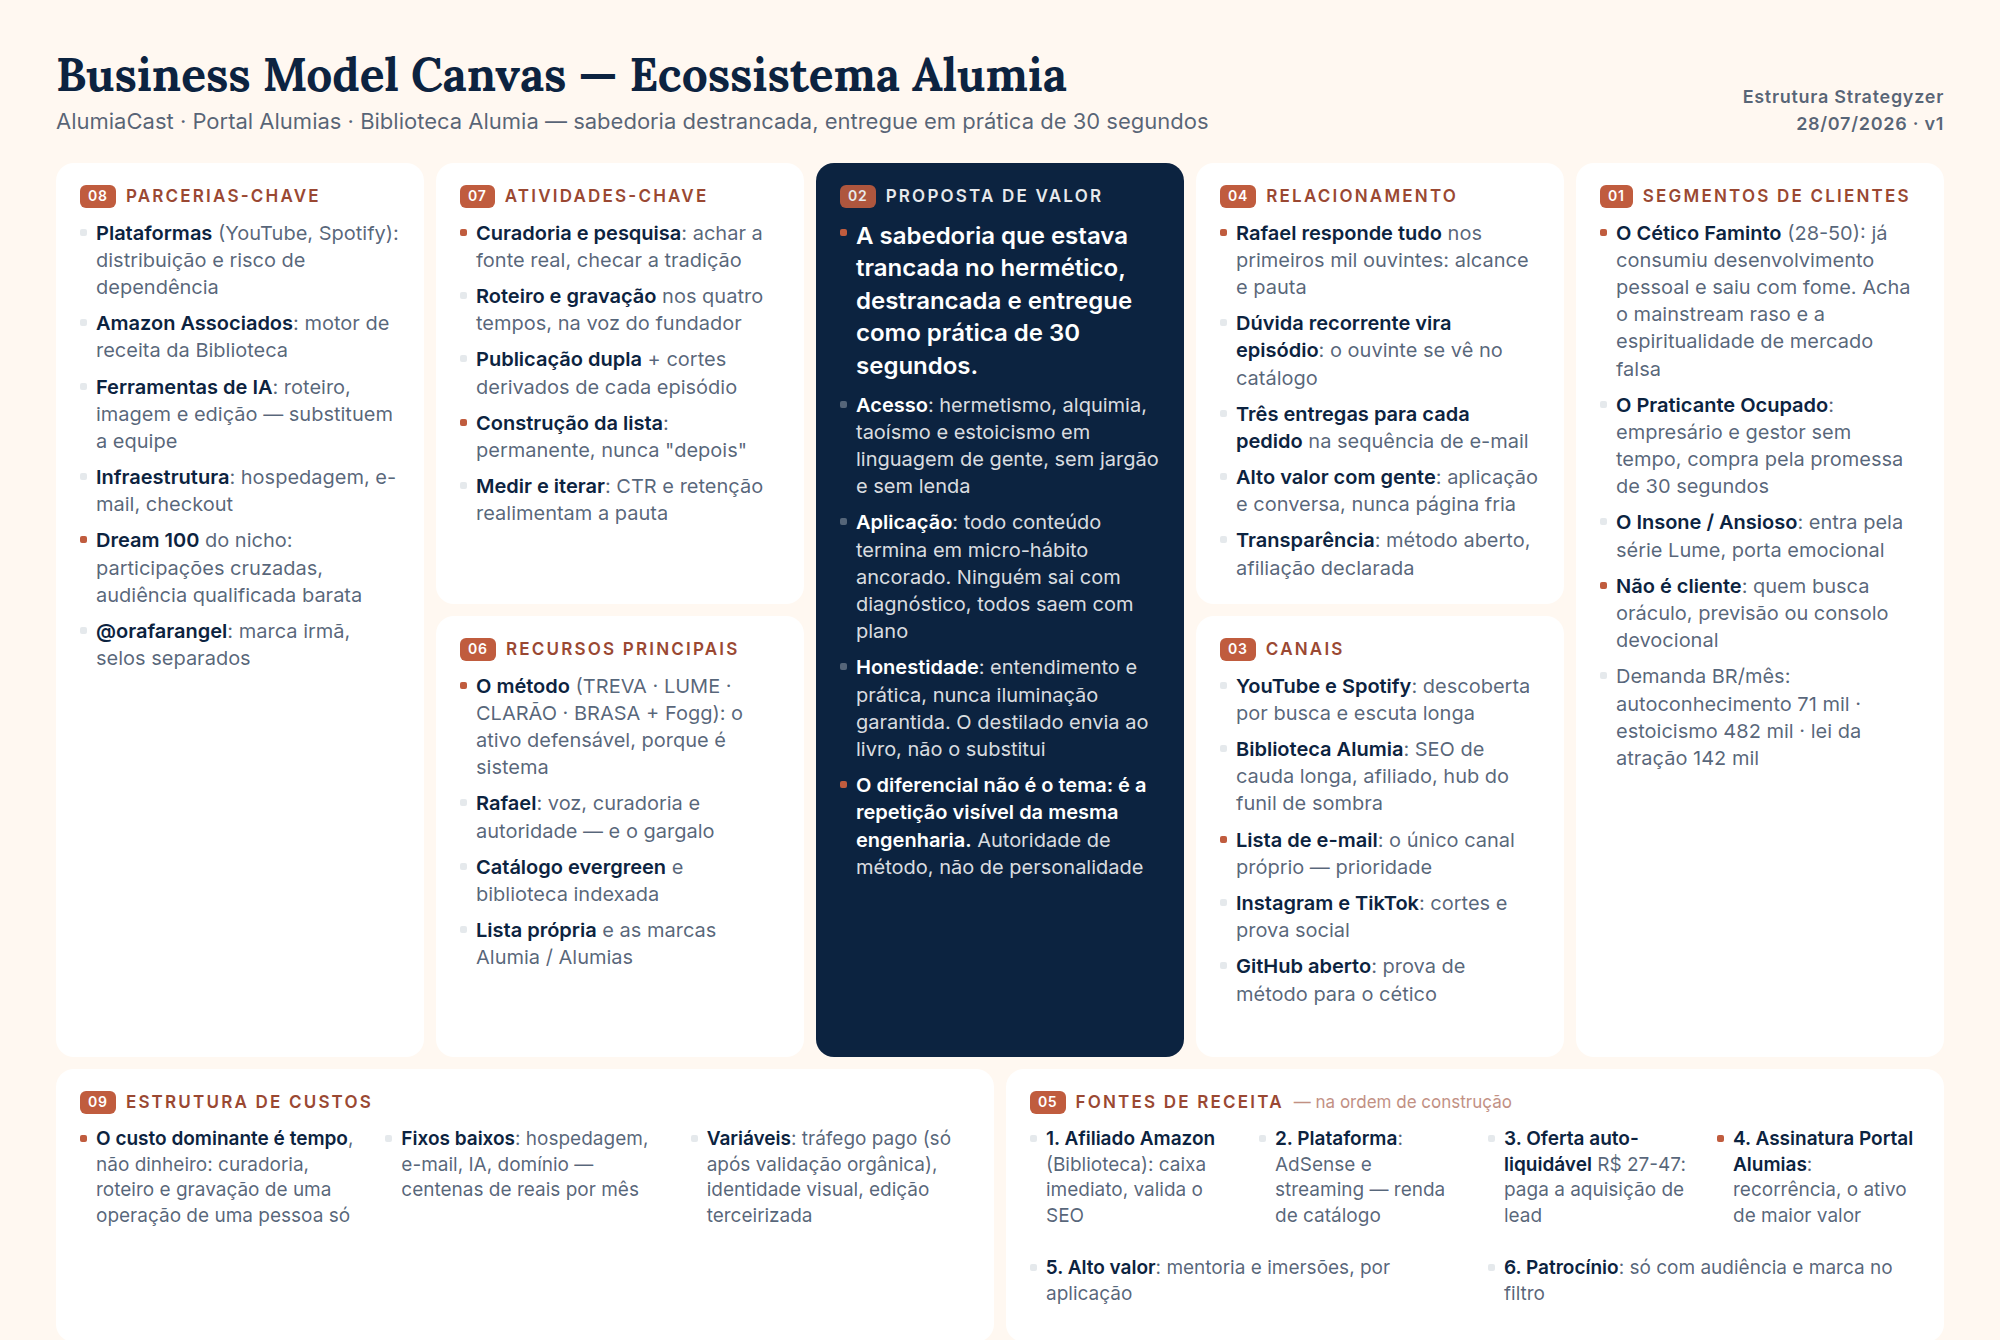
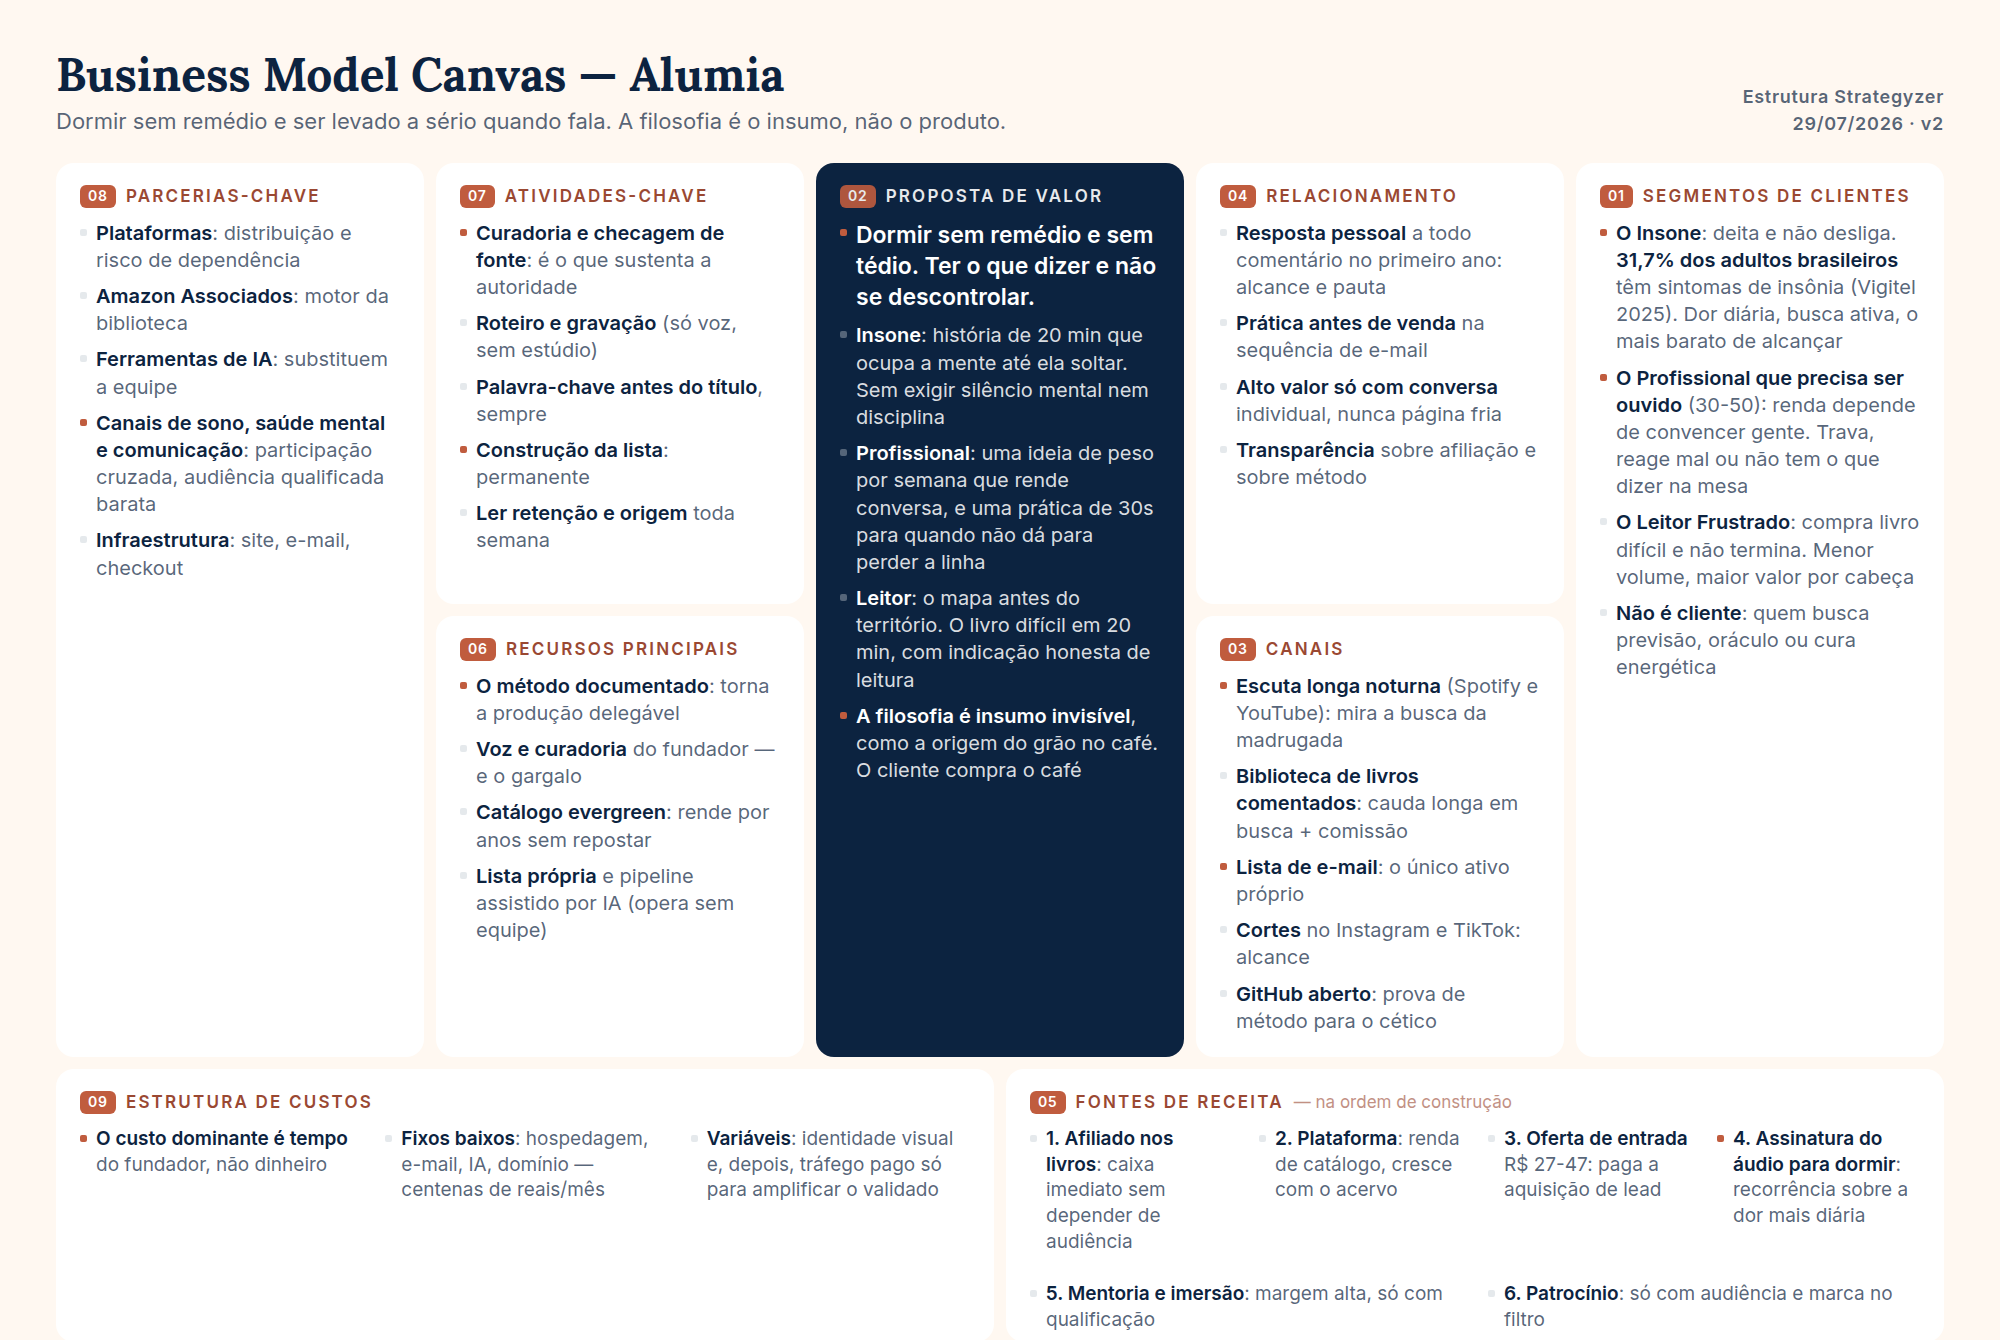
Reescreve o canvas do Alumia: parte da dor real, não da beleza do conteúdo
Correção de rota após crítica do fundador. A filosofia vira insumo e o
produto passa a atender duas necessidades básicas: dormir e acordar, e
interação social/status. Dados: Vigitel 2025 (31,7% dos adultos com
sintomas de insônia), Anderson et al. 2015 sobre status como motivo
humano fundamental, e volumes de busca reais do vidIQ BR.

Claude-Session: https://claude.ai/code/session_01MHaCAs7xjpX4XdmLxjd6p1

diff --git a/bau-de-ideias/alumia/business-model-canvas.md b/bau-de-ideias/alumia/business-model-canvas.md
@@ -1,99 +1,112 @@
-# Business Model Canvas — Ecossistema Alumia
+# Business Model Canvas — Alumia (v2, com pé no chão)
 
-> Estrutura: Business Model Canvas (Osterwalder & Pigneur / Strategyzer), 9 blocos. Criado em 28/07/2026. Escopo: o negócio Alumia (AlumiaCast, Portal Alumias, Biblioteca Alumia), com o @orafarangel como marca irmã e ativo de audiência.
+> Versão 2, 29/07/2026. Reescreve a v1 depois da crítica do fundador: a primeira versão vendia a beleza do conteúdo, não a dor do cliente. Esta parte das necessidades básicas, usa dados de busca reais (vidIQ, Brasil, jul/2026) e fontes verificáveis de prevalência.
 
-## 1. Segmentos de Clientes
+## A correção de rota
 
-**Segmento primário — o Cético Faminto.** Adulto 28-50 anos, escolaridade alta ou autodidata voraz, que já consumiu desenvolvimento pessoal e saiu com fome: acha o mainstream raso e a espiritualidade de mercado falsa. Busca profundidade real e detesta guru. Demanda mensurável no Brasil: autoconhecimento (71 mil buscas/mês no YouTube), lei da atração (142 mil), estoicismo (482 mil).
+A v1 dizia que o produto era "destrancar a sabedoria hermética". Isso descreve a matéria-prima, não o trabalho que o cliente precisa fazer. Ninguém acorda querendo entender hermetismo.
 
-**Segmento secundário — o Praticante Ocupado.** Empresário, gestor, profissional liberal sem tempo, que quer resultado comportamental (ansiedade, foco, decisão) e não tem paciência para teoria. Compra pela promessa de 30 segundos.
+As indústrias que se sustentam orbitam necessidades básicas (comer e beber, higiene, dormir e acordar, interação social) e quase todas operam a serviço do ego, num gradiente que vai do essencial ao supérfluo. Filosofia não é uma necessidade básica. Ela só vira negócio quando serve a uma delas.
 
-**Segmento terciário — o Insone/Ansioso.** Chega pela série imersiva Lume buscando desacelerar e dormir. Entrada pela porta emocional, não pela intelectual.
+O Alumia se posiciona em duas dessas necessidades, e a filosofia entra como insumo invisível:
 
-**Não é cliente:** quem busca oráculo, previsão, cura energética ou consolo devocional. Recusa explícita: atrair esse público destrói o posicionamento.
+1. **Dormir e acordar.** Conteúdo que ajuda a pessoa a desligar a cabeça e adormecer.
+2. **Interação social e status.** Repertório, clareza e autocontrole para a pessoa ser ouvida, respeitada e não se sabotar diante de quem importa.
 
-## 2. Proposta de Valor
+A tradição milenar é o que garante a qualidade e a diferenciação do produto, do mesmo modo que a origem do grão importa no café. O cliente compra o café, não a botânica.
 
-**O núcleo:** a sabedoria que estava trancada no hermético, destrancada e entregue como prática de 30 segundos.
+## As duas dores, com número
 
-Três promessas verificáveis:
-- **Acesso:** o conhecimento difícil (hermetismo, alquimia, cabala, taoísmo, estoicismo) explicado em linguagem de gente, sem jargão e sem lenda de marketing.
-- **Aplicação:** todo conteúdo termina em micro-hábito ancorado (método B = M + A + P, BJ Fogg). Ninguém sai com diagnóstico, todo mundo sai com plano.
-- **Honestidade:** promessa contida por princípio — entendimento e prática, nunca iluminação ou abundância garantida. O destilado é mapa que envia ao livro, não substituto dele.
+### Dor 1 — não conseguir dormir
 
-**O diferencial competitivo real:** não é o tema de cada episódio, é a repetição visível da mesma engenharia (TREVA → LUME → CLARÃO → BRASA). Autoridade de método, não de personalidade.
+O Vigitel 2025 (Ministério da Saúde) mediu que **31,7% dos adultos brasileiros apresentam sintomas de insônia**, chegando a 36,2% entre mulheres, e que **20,2% dormem menos de seis horas por noite**. É uma dor física, diária, com consequência imediata no dia seguinte, e as pessoas já gastam dinheiro com ela (medicação, aplicativos, chás, colchões).
 
-## 3. Canais
+Demanda de busca no YouTube Brasil: insônia soma 58 mil buscas mensais, sono 40 mil, e o guarda-chuva "dormir" 150 mil no mundo. O formato de escuta longa noturna tem competição baixa em português (o cruzamento "estoicismo para dormir" tem 50 mil buscas com competição 27 de 100).
 
-| Canal | Função no funil | Estado |
+**O que a pessoa contrata hoje:** remédio, aplicativo de meditação, ruído branco, série no automático, rolagem no celular. **Por que demite:** remédio tem efeito colateral e culpa, meditação guiada é monótona e a mente escapa, tela estimula e piora.
+
+**O que o Alumia vende:** uma narrativa em segunda pessoa que ocupa a mente até ela apagar, sem exigir silêncio mental nem disciplina. O ensinamento fica embutido na história, e a pessoa não precisa saber disso para o produto funcionar.
+
+### Dor 2 — não ser levado a sério quando fala
+
+A necessidade de status não é vaidade, é motivo humano fundamental: a revisão de [Anderson, Hildreth e Howland (Psychological Bulletin, 2015)](https://pubmed.ncbi.nlm.nih.gov/25774679/), sobre centenas de estudos, mostra que o desejo por status atravessa culturas, gêneros e idades, e que bem-estar, autoestima e saúde física e mental variam conforme o status que a pessoa recebe do grupo.
+
+Demanda de busca no Brasil: comunicação 42 mil, carisma 37 mil, oratória 35 mil, persuasão 17 mil, autoconfiança 16 mil, como ser mais confiante 14 mil. O cluster soma mais de 160 mil buscas mensais. E ansiedade, que é o inimigo direto dessa performance social, tem 175 mil buscas mensais no Brasil, com 97% do volume vindo daqui.
+
+**O que a pessoa contrata hoje:** cursos de oratória, coach, terapia, vídeos de linguagem corporal, livros de comunicação. **Por que demite:** curso de oratória ensina técnica de palco e não resolve a reunião de terça, coach entrega frase e não método, e nada disso funciona no momento em que o coração dispara.
+
+**O que o Alumia vende:** repertório que dá o que dizer (a ideia que faz a pessoa parecer profunda numa conversa) e autocontrole que evita o vexame (a prática de trinta segundos antes da reunião difícil, quando a raiva sobe, quando a crítica chega).
+
+## Os nove blocos
+
+### 1. Segmentos de clientes
+
+**Núcleo A, o Insone.** Adulto que deita e não desliga. Um em cada três adultos brasileiros está aqui. Chega de madrugada, no celular, e é o segmento mais barato de alcançar porque a dor é diária e a busca é ativa.
+
+**Núcleo B, o Profissional que precisa ser ouvido.** Entre 30 e 50 anos, cargo de gestão ou negócio próprio, cuja renda depende de convencer gente. Perde oportunidade por travar, por reagir mal, ou por não ter o que dizer numa mesa de gente mais lida.
+
+**Núcleo C, o Leitor Frustrado.** Compra livro de filosofia e não termina, ou termina e não aplica. É o menor dos três, porém o de maior valor por cabeça, porque compra livro, curso e mentoria.
+
+**Não é cliente:** quem busca previsão, oráculo ou cura energética.
+
+### 2. Proposta de valor
+
+**Para o Insone:** histórias que fazem você dormir sem remédio e sem tédio. Vinte minutos de narrativa calma que ocupa a mente até ela soltar.
+
+**Para o Profissional:** o que dizer e como não se descontrolar. Uma ideia de peso por episódio, que rende conversa, e uma prática de trinta segundos para os momentos em que você não pode perder a linha.
+
+**Para o Leitor Frustrado:** o mapa antes do território. O livro difícil destrinchado em vinte minutos, com a indicação honesta de qual comprar e por onde começar.
+
+**O que sustenta as três:** fonte real e creditada, linguagem sem jargão, e sempre uma instrução executável. A repetição desse padrão é o produto.
+
+### 3. Canais
+
+Spotify e YouTube como vitrine e descoberta, com o formato de escuta longa mirando explicitamente a busca noturna. Biblioteca de livros comentados na web capturando busca de cauda longa e gerando comissão. Lista de e-mail como o único ativo próprio. Cortes curtos no Instagram e TikTok para alcance. GitHub aberto como prova de método para o cliente cético.
+
+### 4. Relacionamento
+
+Resposta pessoal a todo comentário no primeiro ano, porque comentário respondido é alcance e é pauta. Sequência de e-mail entregando prática antes de vender. Venda de alto valor apenas com conversa individual. Transparência sobre afiliação e sobre método.
+
+### 5. Fontes de receita
+
+| Ordem | Fonte | O que destrava |
 |---|---|---|
-| YouTube (AlumiaCast) | Descoberta por busca e recomendação; vídeo evergreen sem rosto | A lançar |
-| Spotify e agregadores | Descoberta e consumo em áudio; público de escuta longa | A lançar |
-| Biblioteca Alumia (site) | SEO de cauda longa por livro; receita de afiliado; hub do funil de sombra | A construir |
-| Lista de e-mail | O único canal próprio; comunicação direta sem intermediário | Prioridade |
-| Instagram e TikTok | Cortes derivados, alcance e prova social | Secundário |
-| @orafarangel | Marca irmã; ponte de audiência via o próprio Rafael, sem fusão de marcas | Ativo |
-| GitHub aberto | Prova de método para o cético que pesquisa antes de confiar | Ativo |
+| 1 | Comissão de afiliado nos livros comentados | Caixa imediato e presença em busca, sem depender de audiência grande |
+| 2 | Monetização de plataforma (YouTube e streaming) | Renda de catálogo, cresce sozinha com o acervo |
+| 3 | Oferta de entrada barata (R$ 27 a 47) | Paga o custo de aquisição de lead e qualifica quem tem cartão na mão |
+| 4 | Assinatura da biblioteca de áudio para dormir | Recorrência, o ativo de maior valor, e a dor mais diária dos três núcleos |
+| 5 | Mentoria e imersão | Margem alta, volume baixo, só com qualificação |
+| 6 | Patrocínio | Só depois de audiência, e só marca que passe no filtro |
 
-## 4. Relacionamento com Clientes
+### 6. Recursos principais
 
-- **Assistência pessoal na largada:** Rafael responde todo comentário nos primeiros mil ouvintes. Comentário respondido é alcance e é pauta.
-- **Comunidade e cocriação:** as dúvidas recorrentes viram episódios; o ouvinte se vê no catálogo.
-- **Automação por sequência de e-mail:** entrega de valor recorrente na lista, na proporção de três entregas para cada pedido (jab, jab, jab, right hook).
-- **Alto valor com contato humano:** mentoria e imersão só com aplicação e conversa individual, nunca venda em página fria.
-- **Transparência radical:** o método é público no GitHub; a relação de afiliado é declarada em toda página.
+O método documentado (que torna a produção delegável), a voz e a curadoria do fundador, o catálogo evergreen que rende por anos, a lista própria, e o pipeline assistido por IA que permite operar sem equipe.
 
-## 5. Fontes de Receita
+### 7. Atividades-chave
 
-Na ordem de construção, do mais rápido ao mais rentável:
+Curadoria e checagem de fonte, roteiro e gravação, publicação dupla com cortes derivados, pesquisa de palavra-chave antes de cada título, construção contínua da lista, e leitura semanal de retenção e origem de tráfego para realimentar a pauta.
 
-1. **Afiliado Amazon (Biblioteca Alumia).** Comissão por venda de livro. Receita pequena e imediata, que já valida a máquina de SEO.
-2. **Monetização de plataforma.** AdSense no YouTube e royalties de streaming. Depende de escala; renda de catálogo, não de lançamento.
-3. **Oferta auto-liquidável (SLO).** Produto de entrada de R$ 27 a 47 (livro de práticas, guia de micro-hábitos), cujo objetivo é pagar o custo de aquisição de lead, não lucrar.
-4. **Assinatura do Portal Alumias.** Biblioteca premium da série Lume e trilhas de prática. Receita recorrente — o ativo de maior valor no longo prazo.
-5. **Alto valor.** Mentoria, imersões e encontros presenciais, com qualificação por aplicação.
-6. **Patrocínio de episódio.** Só depois de audiência consolidada e com marcas que passem no filtro dos guardrails.
+### 8. Parcerias-chave
 
-## 6. Recursos Principais
+Plataformas de distribuição, programa de afiliados da Amazon, ferramentas de IA e produção, infraestrutura de site e e-mail, e participações cruzadas com canais do nicho de sono, saúde mental e comunicação.
 
-- **Intelectual:** o método (TREVA-LUME-CLARÃO-BRASA), o framework Fogg-Hayakawa e o repositório aberto — o ativo mais defensável, porque é sistema, não talento avulso.
-- **Humano:** Rafael (voz, curadoria, autoridade). É também o principal gargalo e o principal risco.
-- **Digital:** catálogo evergreen de episódios, biblioteca indexada, lista de e-mail.
-- **Marca:** os nomes Alumia, AlumiaCast e Alumias, e a identidade visual própria (a construir).
-- **Tecnológico:** pipeline de produção assistida por IA (roteiro, imagem, edição), que é o que torna a operação de uma pessoa só viável.
+### 9. Estrutura de custos
 
-## 7. Atividades-Chave
+Custo dominante é o tempo do fundador. Custo financeiro fixo baixo, na casa de centenas de reais por mês entre hospedagem, e-mail, IA e domínio. Variáveis pontuais em identidade visual e, mais adiante, tráfego pago apenas para amplificar o que o orgânico já validou.
 
-- **Curadoria e pesquisa:** escolher o conceito, achar a fonte real, checar a tradição. É o que sustenta a autoridade.
-- **Roteiro e gravação:** produzir o episódio nos quatro tempos, na voz do fundador.
-- **Pós e publicação dupla:** vídeo no YouTube e áudio no Spotify a partir do mesmo master; cortes derivados.
-- **SEO e distribuição:** pesquisa de palavra-chave antes de titular, baldes de conteúdo, otimização contínua.
-- **Construção da lista:** captura em todos os pontos de contato. Atividade permanente, nunca "depois".
-- **Medição e iteração:** CTR, retenção e origem de tráfego realimentando a pauta seguinte.
+## O que o cliente demite ao contratar o Alumia
 
-## 8. Parcerias-Chave
+| Ele para de usar | Porque o Alumia entrega |
+|---|---|
+| Remédio para dormir e rolagem noturna | Uma história que apaga a luz sem efeito colateral |
+| Aplicativo de meditação abandonado na segunda semana | Nada para configurar, nada para manter, só apertar o play |
+| Curso de oratória caro que não muda a reunião de terça | Uma ideia por semana que rende conversa, e uma prática para o momento crítico |
+| Resumo de livro raso e sem fonte | Destilado com fonte creditada e indicação honesta de leitura |
 
-- **Plataformas de distribuição** (YouTube, Spotify): parceiros e ao mesmo tempo risco de dependência — daí a prioridade da lista própria.
-- **Amazon Associados:** programa de afiliado que sustenta a Biblioteca.
-- **Ferramentas de IA e produção** (geração de imagem, edição, análise de canal): o que substitui uma equipe.
-- **Provedores de infraestrutura:** hospedagem de podcast, e-mail marketing, checkout.
-- **Dream 100 do nicho:** canais e criadores de filosofia, neurociência e autoconhecimento para participações cruzadas — o caminho mais barato de audiência qualificada.
-- **@orafarangel:** marca irmã que empresta método e recebe profundidade, com selos separados.
+## Como saber se está funcionando (noventa dias)
 
-## 9. Estrutura de Custos
+Três números decidem, e nenhum deles é inscrito ou curtida: retenção média acima de 50% nos episódios longos, taxa de conversão da audiência para a lista de e-mail, e primeiras comissões da biblioteca. Se a retenção sustentar e a lista crescer, avança para assinatura. Se não, o custo do experimento foi tempo e algumas centenas de reais.
 
-Modelo enxuto por desenho: o custo dominante é o tempo do fundador, não dinheiro.
+## Fontes
 
-**Fixos baixos:** hospedagem de podcast e site, ferramenta de e-mail, assinaturas de IA, domínio. Ordem de centenas de reais por mês.
-
-**Variáveis:** tráfego pago (só depois que o orgânico validar o criativo), design e identidade visual (investimento pontual), eventual edição terceirizada quando o gargalo apertar.
-
-**O custo invisível e maior:** as horas de curadoria, roteiro e gravação de uma operação de uma pessoa só. É o que define o teto de crescimento até a primeira contratação.
-
----
-
-## As três tensões que o canvas revelou
-
-1. **Dependência do fundador.** Voz, curadoria e autoridade concentradas em uma pessoa limitam escala e criam risco único. Mitigação: sistematizar o método (já em curso no repositório) para que a produção seja delegável sem perder identidade.
-2. **Descompasso entre audiência e receita.** Podcast e YouTube demoram a monetizar por si. Por isso a Biblioteca (afiliado) entra cedo: gera receita e SEO enquanto a audiência amadurece.
-3. **Tensão entre honestidade e conversão.** A promessa contida converte menos no curto prazo que a promessa inflada do mercado esotérico. É uma escolha estratégica consciente: menos volume, mais confiança, e um ativo que não implode na primeira crise de credibilidade do nicho.
+Volumes de busca: vidIQ, YouTube Brasil, consultado em 26 e 29/07/2026 (revalidar por trimestre). Prevalência de insônia: Vigitel 2025, Ministério da Saúde. Motivo de status: Anderson, Hildreth e Howland, Psychological Bulletin, 2015.
